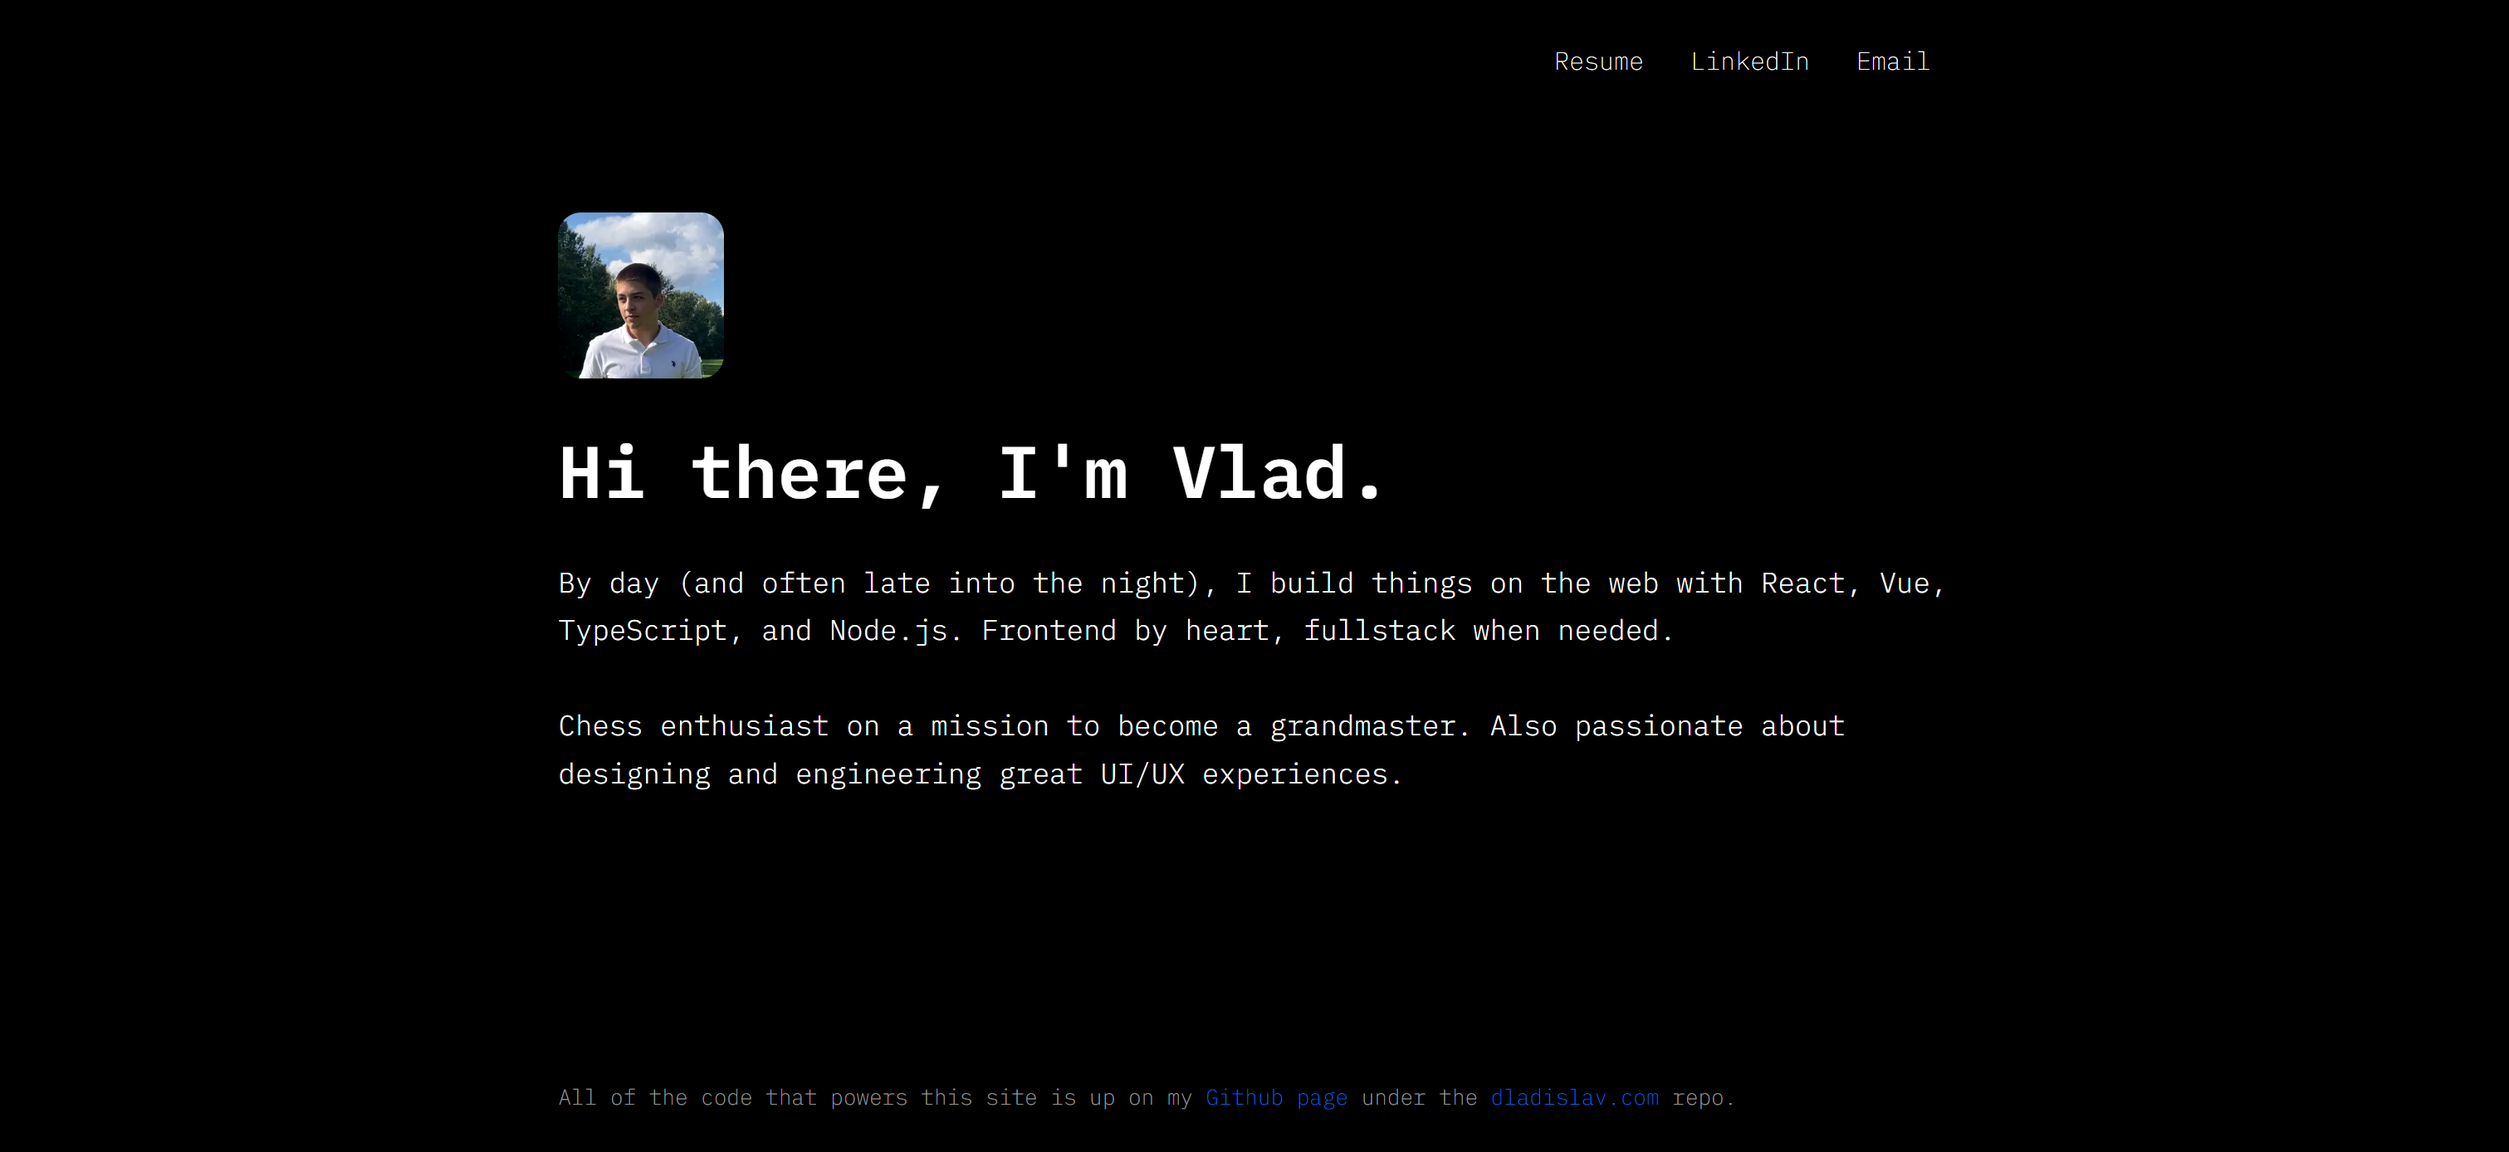
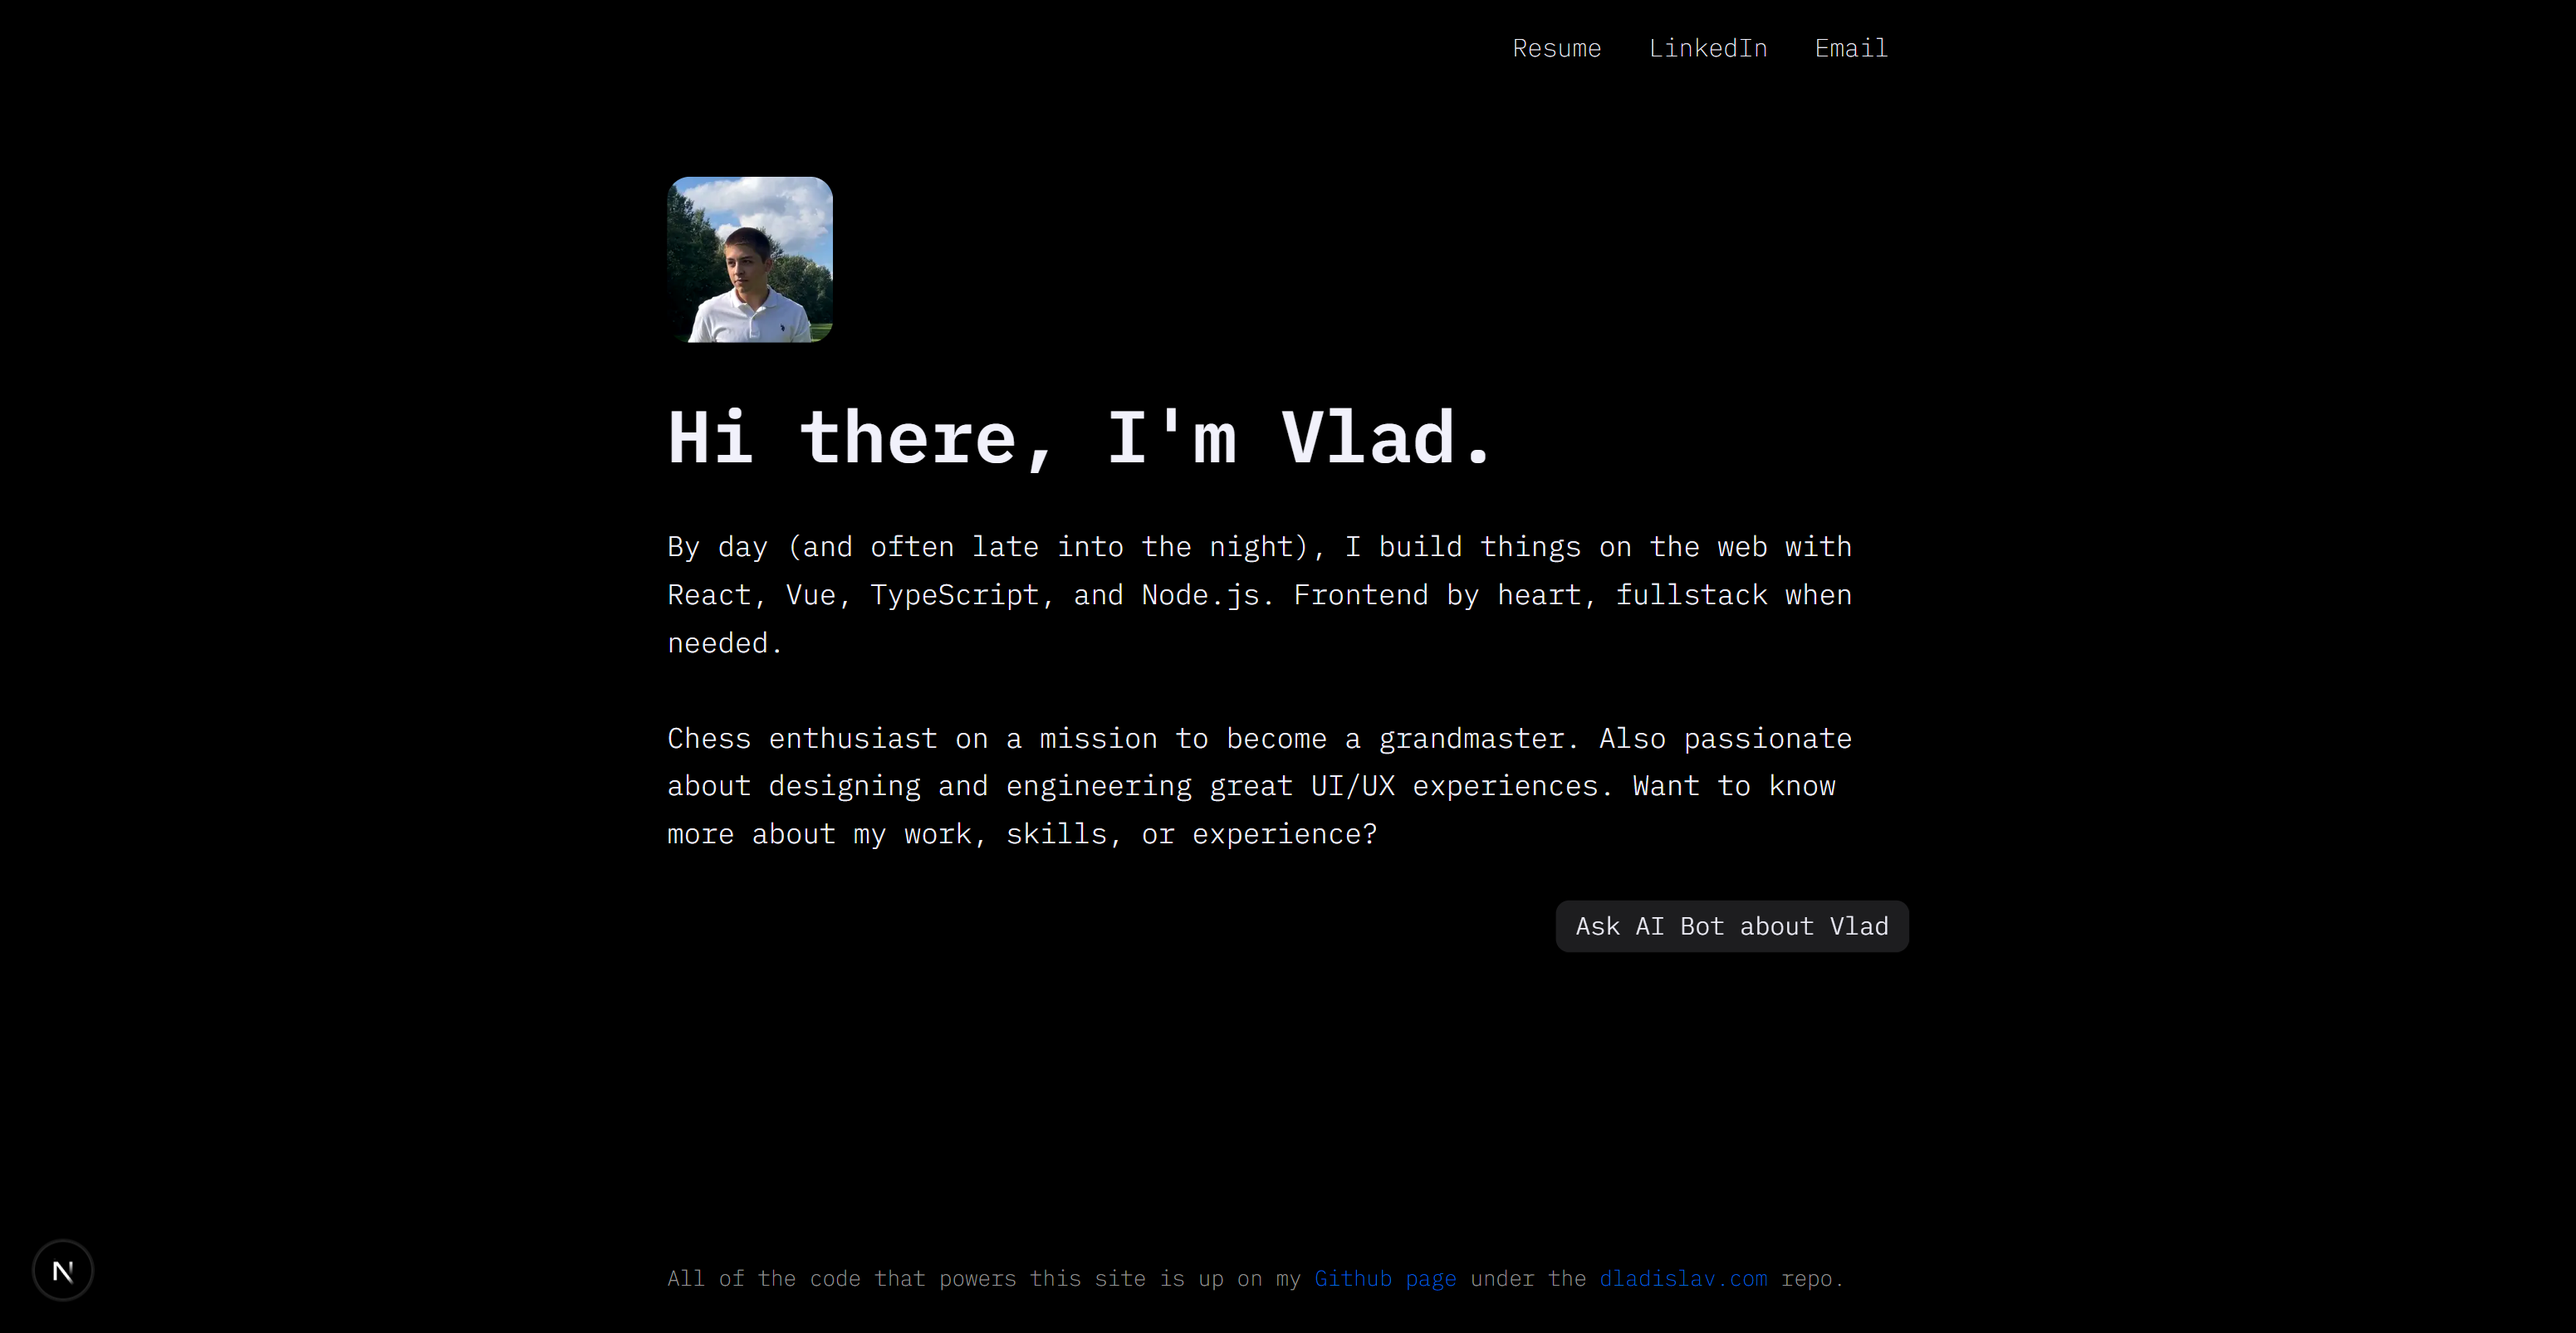
docs: update all README files and add .env.example for server

diff --git a/server/README.md b/server/README.md
@@ -1,6 +1,6 @@
 # AI Assistant Backend
 
-> Backend service for a personal portfolio AI assistant that answers questions about Vladyslav Dobrodii's professional experience and skills using OpenAI API and vector search.
+> Backend service for a personal portfolio AI assistant that answers questions about Vladyslav Dobrodii's professional experience and skills using OpenAI API and Pinecone.
 
 ## Tech Stack
 
@@ -11,12 +11,13 @@
 - [Pinecone](https://www.pinecone.io/)
 - [Jest](https://jestjs.io/)
 
-## Setup
+## Getting Started
 
 ### Prerequisites
 
-- Node.js 18+
-- npm or yarn
+- Node.js (version 18 or later)
+- npm
+- Docker
 - OpenAI API key
 - Pinecone API key (optional)
 
@@ -33,19 +34,9 @@ cd dladislav.com/server
 
 ```bash
 npm install
-# or
-yarn
 ```
 
-3. Create a `.env` file in the root directory with the following variables:
-
-```
-PORT=3001
-NODE_ENV=development
-OPENAI_API_KEY=your_openai_key_here
-PINECONE_API_KEY=your_pinecone_key_here
-PINECONE_INDEX_NAME=portfolio-knowledge  # Optional
-```
+3. Create a `.env` file in the root directory based on the provided `.env.example` templates.
 
 4. Seed the knowledge base:
 
@@ -53,29 +44,10 @@ PINECONE_INDEX_NAME=portfolio-knowledge  # Optional
 npm run seed
 ```
 
-### Development
-
-Run the development server:
+5. Run the Application in Development Mode
 
 ```bash
 npm run dev
-```
-
-### Build
-
-Compile TypeScript to JavaScript:
-
-```bash
-npm run build
-```
-
-### Testing
-
-Run tests:
-
-```bash
-npm test                # Run all tests
-npm run test:integration # Run integration tests only
 ```
 
 ## API Endpoints
@@ -88,8 +60,6 @@ POST /api/ai/chat
 
 **Request Body:**
 
-json
-
 ```json
 {
   "message": "What technologies does Vladyslav know?"
@@ -97,8 +67,6 @@ json
 ```
 
 **Response:**
-
-json
 
 ```json
 {
@@ -111,25 +79,6 @@ json
     }
   ]
 }
-```
-
-## Project Structure
-
-```
-server/
-├── src/
-│   ├── config/         # Environment configuration
-│   ├── controllers/    # Request handlers
-│   ├── data/           # Personal information data
-│   ├── routes/         # API routes
-│   ├── services/       # Business logic
-│   ├── scripts/        # Utility scripts
-│   ├── __tests__/      # Test files
-│   └── index.ts        # Entry point
-├── jest.config.js      # Jest configuration
-├── .env                # Environment variables
-├── tsconfig.json       # TypeScript configuration
-└── package.json        # Dependencies and scripts
 ```
 
 ## Available Scripts
@@ -146,11 +95,9 @@ server/
 - `npm run test:integration` - Run integration tests
 - `npm run seed` - Seed knowledge base for AI
 
-## Security Measures
+## Contact
 
-- Helmet for secure HTTP headers
-- CORS configuration
-- Rate limiting
-- Request size limits
-- Timeout handling
-- Input validation
+**Vladyslav Dobrodii**
+[dobrodii.vlad200@gmail.com](mailto:dobrodii.vlad200@gmail.com)
+[LinkedIn](https://www.linkedin.com/in/vladyslav-dobrodii-20384a233/)
+[GitHub Repository](https://github.com/dladislav201/dladislav.com)

diff --git a/README.md b/README.md
@@ -1,11 +1,10 @@
 # dladislav.com Monorepo
 
-![Version](https://img.shields.io/badge/version-1.0.0-blue.svg)
 [![License](https://img.shields.io/badge/license-MIT-green.svg)](LICENSE)
 [![CI](https://github.com/dladislav201/dladislav.com/actions/workflows/ci.yml/badge.svg)](https://github.com/dladislav201/dladislav.com/actions/workflows/ci.yml)
 [![Vercel Deployment](https://img.shields.io/github/deployments/dladislav201/dladislav.com/production?label=vercel&logo=vercel)](https://dladislav.com)
 
-> Personal portfolio website monorepo.
+> Personal portfolio website with AI integration.
 
 [Live Website](https://dladislav.com)
 
@@ -30,8 +29,8 @@ dladislav.com/
 
 #### Backend
 
-- [Node.js]
-- [Express]
+- [Node.js](https://nodejs.org/)
+- [Express](https://expressjs.com/)
 - [TypeScript](https://www.typescriptlang.org/)
 - [OpenAI API Integration](https://platform.openai.com/docs/api-reference)
 - [Pinecone](https://www.pinecone.io/)
@@ -48,27 +47,42 @@ dladislav.com/
 
 - Node.js (version 18 or later)
 - npm
+- Docker
+- OpenAI API key
+- Pinecone API key (optional)
 
 ### Installation
 
 1. Clone the repository
 
-`s
+```bash
+git clone https://github.com/dladislav201/dladislav.com.git
+cd dladislav.com
+```
 
 2. Install dependencies
 
 ```bash
 npm install
-# or
-yarn
 ```
+
+3. Set Up Environment Variables
+
+Create `.env` files for `server/` directory based on the provided `.env.example` templates.
+
+4. Run the Application in Development Mode
+
+```bash
+npm run dev
+```
+
+5. The website will be available in your browser at [http://localhost:3000](http://localhost:3000)
 
 ## Available Scripts
 
-- `npm run dev:web` - Start frontend development server
-- `npm run dev:server` - Start backend development server
 - `npm run build` - Build all projects
 - `npm run test` - Run all tests
+- `npm run dev` - Run web/ and server/ simultaneously in development mode
 
 ## License
 
@@ -76,5 +90,7 @@ This project is licensed under the MIT License - see the [LICENSE](LICENSE) file
 
 ## Contact
 
-Vladyslav Dobrodii - [dobrodii.vlad200@gmail.com](mailto:dobrodii.vlad200@gmail.com)
-Project Link: [https://github.com/dladislav201/dladislav.com](https://github.com/dladislav201/dladislav.com)
+**Vladyslav Dobrodii**
+[dobrodii.vlad200@gmail.com](mailto:dobrodii.vlad200@gmail.com)
+[LinkedIn](https://www.linkedin.com/in/vladyslav-dobrodii-20384a233/)
+[GitHub Repository](https://github.com/dladislav201/dladislav.com)

diff --git a/web/README.md b/web/README.md
@@ -1,11 +1,18 @@
 # Web Frontend
 
+> Frontend for the personal portfolio website, built with Next.js and TypeScript.
+
 ## Tech Stack
 
 - [Next.js](https://nextjs.org/)
 - [TypeScript](https://www.typescriptlang.org/)
 
-## Local Development
+## Getting Started
+
+### Prerequisites
+
+- Node.js (version 18 or later)
+- npm
 
 1. Clone the repository
 
@@ -18,40 +25,15 @@ cd dladislav.com/web
 
 ```bash
 npm install
-# or
-yarn
 ```
 
-3. Run the development server
+3. Run the Application in Development Mode
 
 ```bash
 npm run dev
-# or
-yarn dev
 ```
 
 4. Open [http://localhost:3000](http://localhost:3000) in your browser
-
-## Project Structure
-
-```
-├── public/              # Static files and images
-├── src/
-│   ├── app/             # Next.js app router
-│   │   ├── styles/      # Global styles
-│   │   ├── layout.tsx   # Root layout
-│   │   └── page.tsx     # Home page
-│   └── components/      # Reusable UI components
-│       ├── ui/          # UI elements
-│       ├── sections/    # Page sections
-│       ├── data/        # Static data and configurations for sections
-│       └── hooks/       # Custom React hooks specific to sections
-├── .eslintrc.js         # ESLint configuration
-├── .gitignore           # Git ignore rules
-├── next.config.js       # Next.js configuration
-├── package.json         # Dependencies and scripts
-└── tsconfig.json        # TypeScript configuration
-```
 
 ## Available Scripts
 
@@ -59,5 +41,12 @@ yarn dev
 - `npm run build` - Builds the site for production
 - `npm run start` - Runs the built site in production mode
 - `npm run lint` - Lints the code with ESLint
+- `npm run lint:fix` - Automatically fix linting issues
 - `npm run typecheck` - Checks TypeScript types without emitting files
-- `npm run test` - Runs tests with Jest
+
+## Contact
+
+**Vladyslav Dobrodii**
+[dobrodii.vlad200@gmail.com](mailto:dobrodii.vlad200@gmail.com)
+[LinkedIn](https://www.linkedin.com/in/vladyslav-dobrodii-20384a233/)
+[GitHub Repository](https://github.com/dladislav201/dladislav.com)
